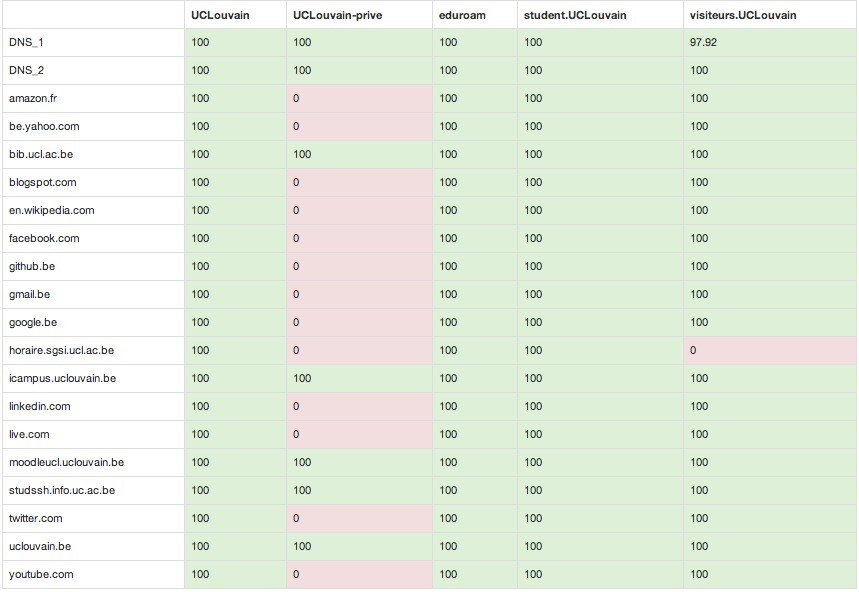
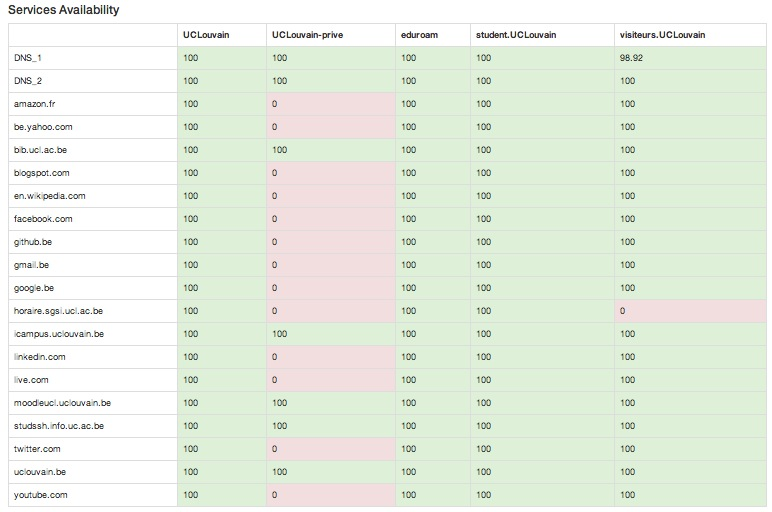
Limitations + Chap 6

diff --git a/redaction/Chapters/Chapter6V2.tex b/redaction/Chapters/Chapter6V2.tex
@@ -170,7 +170,7 @@ We want our application to be able to give a performance and quality overview of
 \end{figure} 
 
 
-\paragraph*{DNS} The first conclusion we made after analysing the results is that both \texttt{DNS} servers are always reachable and accessible within the five \texttt{VLANs}. Still, we noticed that during the deployment we had a 97.92\% reachability value for the first server with the \texttt{visiteurs.UCLouvain} network. This is not an issue since the second server, that had a 100\% reachability value, backs up the first one if a connectivity issue arise between that server and the users. Addresses are always resolved.
+\paragraph*{DNS} The first conclusion we made after analysing the results is that both \texttt{DNS} servers are always reachable and accessible within the five \texttt{VLANs}. Still, we noticed that during the deployment we had a reachability rate of 98.92 percent for the first server with the \texttt{visiteurs.UCLouvain} network. This is not an issue since the second server, that had rate of 100 percent, backs up the first one if a connectivity issue arise between that server and the users. Addresses are always resolved.
 
 \paragraph*{Services test} The results of the service reachability tests depend on which network the test is executed on. Indeed, the UCL's wireless documentation states that some \texttt{VLANs} restrict the range of accessible websites. We were able to confirm that information thanks to these tests. Upon our analysis we can see that, only two networks have some restrictions.
 
@@ -188,10 +188,10 @@ By checking periodically those services, we can generate their availability rate
 
 \paragraph*{Source} The data used in this analysis are completely generated by our system. The tests are performed by subroutines implemented in our \texttt{C} program. All the information are centralized in the server that also handles all the data aggregating and analysis phase.
 
-\section{Limitations}
+%\section{Limitations}
+%During the development 
 
-
-The main limitation of those analysis is the interface of \texttt{wpa\_supplicant}. We interface our program with it and use its message and functions to generate our data. A more powerful approach would be to work directly in the \texttt{wpa\_supplicant} code and extend it with our program. That is far more complex and would require a lot more of time. Nevertheless, it is really an interesting idea for future extensions for our system.
+%The main limitation of those analysis is the interface of \texttt{wpa\_supplicant}. We interface our program with it and use its message and functions to generate our data. A more powerful approach would be to work directly in the \texttt{wpa\_supplicant} code and extend it with our program. That is far more complex and would require a lot more of time. Nevertheless, it is really an interesting idea for future extensions for our system.
 
 \section{Summary}
 In this chapter, information about the analysis performed by our active monitoring program has been developed. Thanks to all the collected data plotted into graphs we were able to spot some issues on the network that we tried to understand and describe. The active tool is still a prototype but, as we have seen throughout this chapter, it can help diagnose the network with a different view since the information it is able to gather is not always reported in the controller log files.

diff --git a/redaction/Chapters/Chapter4.tex b/redaction/Chapters/Chapter4.tex
@@ -147,6 +147,13 @@ Regarding the wireless itself, the \texttt{TL-WR741ND} offers several interestin
 
 To summarize, with its 150Mbps wireless data rate and its advanced WiFi security management (\texttt{WPA/WPA2} encryptions), this router provides a rather good base for our active WiFi monitoring system. But in order to be able to execute our program on the router and get results we had to change its the firmware with something not proprietary that we can work with and modulate as we want. This is why we have chosen to replace the original TP-LINK firmware with \texttt{OpenWrt} Linux.
 
+\paragraph*{Limitations}
+During the development and the implementation of the active monitoring program we had to deal with some limitations directly induced by the router's hardware specifications.
+\begin{description}
+	\item [Frequency range]: Since the frequency range of the \texttt{TP-LINK TL-WR741ND} goes from \texttt{2.4Ghz} to \texttt{2.4835Ghz} we were not able to test the connection loop on the \texttt{5Ghz} access points interface. Another limitation this frequency range introduced concerns the \texttt{802.11} protocols. Indeed, only \texttt{802.11a, g} and \texttt{n (2.4Ghz)} are used in our application. The \texttt{802.11n (5Ghz)} is not taken into account. 
+
+	\item [Filesystem Disk Space]: The available disk space on which \texttt{OpenWrt} packages can be installed is equal to \texttt{1.1Mo} which is rather limited. Even if we remove all unnecessary packages such as \texttt{Luci}, there is not enough space available in order to install all the required packages the application needs. One implication is for the utilization of \texttt{OpenSSL}. Indeed, We provide a fully working encrypted transmission of the log to the server but since there was not enough space to install the \texttt{openssl} package we took the decision not to use it in our implementation and use a clear text transmission mechanism instead.
+\end{description}
 
 \subsection{OpenWrt}
 \texttt{OpenWrt} \cite{openwrt} is a highly extensible GNU/Linux distribution for embedded devices. The particularity of \texttt{OpenWrt} is that it is a full-featured, easily modifiable operating system for routers. Indeed, it offers a fully writable file system and a built-in package manager. Thanks to this package manager, we can install any package we want from a software repository allowing us to customize the device to suit any application. All the restrictions and configurations provided by the vendor within its own firmware installed by default on the router are therefore dropped meaning the device using this distribution can feature functions such as \texttt{SSH} server, \texttt{VPN}, \texttt{BitTorrent client}, custom QoS and so on.

diff --git a/wpa_supplicant/wifi_monitoring.c b/wpa_supplicant/wifi_monitoring.c
@@ -410,7 +410,7 @@ static void create_networks() {
 /*
  * Configure the network by sending commands to wpa_supplicant with special variables and parameters
  */
- void config_network(int network, char *ssid, char *key_mgmt, char *eap, char *pairwise, char *identity, char *password, char *ca_cert, char *phase1, char *phase2, char *psk) {
+ void config_network(int network, char *ssid, char *key_mgmt, char *eap, char *pairwise, char *identity, char *password, char *ca_cert, char *phase1, char *phase2) {
 	char cmd[512];
 
 	os_snprintf(cmd, sizeof(cmd), "SET_NETWORK %d ssid \"%s\"", network,ssid);
@@ -454,10 +454,6 @@ static void create_networks() {
 	if(phase2 != NULL) {
 		os_snprintf(cmd, sizeof(cmd), "SET_NETWORK %d phase2 \"%s\"",network, phase2);
 		commands(cmd);
-	}
-
-	if(psk != NULL) {
-		os_snprintf(cmd, sizeof(cmd), "SET_NETWORK %d psk \"%s\"", network, psk);
 	}
 }
 
@@ -726,18 +722,21 @@ static void services_loop() {
  */
 static void scan() {
 	char *line, *saved_line, *object, *saved_object;
-	char reply[BUF*12];
+	char reply[BUF*12], reply2[BUF];
 	size_t len = (BUF*12)-1;
+	size_t len2 = (BUF)-1;
 	int i,ret;
 	
 	/* Perfoms a scan */
-	commands("SCAN");
+	//commands("SCAN");
+	wpa_ctrl_request(ctrl, "SCAN", os_strlen("SCAN"), reply2, &len2, NULL);
 	/* Get and store the scan results inside a buffer */
 	ret = wpa_ctrl_request(ctrl, "SCAN_RESULTS", os_strlen("SCAN_RESULTS"), reply, &len, NULL);
-	/*if(ret < 0) {
+	if(ret < 0) {
+		sleep(1);
 		printf("REPEAT\n");
 		scan();
-	}*/
+	}
 
 	reply[len] = '\0';
 	i = 0; 

diff --git a/wpa_supplicant/wifi_monitoring.h b/wpa_supplicant/wifi_monitoring.h
@@ -132,7 +132,7 @@ static void parse_event(const char *);
 static void execute_action(enum wpa_action, int);
 static void commands(char *);
 static void create_networks();
-static void config_network(int, char *, char *, char *, char *, char *, char *, char *, char *, char *, char *);
+static void config_network(int, char *, char *, char *, char *, char *, char *, char *, char *, char *);
 static void connect_network(int );
 static int checkDNS(char *);
 static int checkService(char *, const char *);
